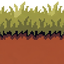
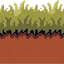
feat(vila-0): controles de toque + correcoes de cenario
- TouchControls: botoes virtuais mover/pular/atacar/interagir (so em dispositivo touch)
- InputManager unifica teclado e toque
- Dialogo e menu avancam por toque na tela
- Dicas de controle adaptadas ao dispositivo
- fix: remove faixa branca no topo do tile de grama (fundo do gerador)
- fix: cercas espacadas pela largura real da textura, sem sobreposicao
- cercas agora delimitam horta do moinho e pasto do campones

diff --git a/src/managers/TouchControls.js b/src/managers/TouchControls.js
@@ -1,0 +1,84 @@
+import Phaser from 'phaser';
+import { GAME_WIDTH, GAME_HEIGHT } from '../config/gameConfig.js';
+
+// Controles de toque para mobile.
+// Só são criados quando o dispositivo tem touch — no desktop o teclado continua sendo
+// o único input, sem poluir a tela com botões.
+export default class TouchControls {
+  constructor(scene) {
+    this.scene = scene;
+    this.enabled = scene.sys.game.device.input.touch;
+
+    this.state = {
+      left: false,
+      right: false,
+      jump: false,
+      attack: false,
+      interact: false,
+    };
+
+    // Flags de "acabou de pressionar", consumidas uma vez por frame pelo InputManager.
+    this.justPressed = { jump: false, attack: false, interact: false };
+
+    if (this.enabled) this.build();
+  }
+
+  build() {
+    const R = 52;
+    const bottom = GAME_HEIGHT - 90;
+
+    // D-pad à esquerda, ações à direita — polegar de cada mão.
+    this.makeButton(100, bottom, R, '◀', 'left');
+    this.makeButton(230, bottom, R, '▶', 'right');
+
+    this.makeButton(GAME_WIDTH - 110, bottom, R + 8, '▲', 'jump');
+    this.makeButton(GAME_WIDTH - 235, bottom - 60, R, '⚔', 'attack');
+    this.makeButton(GAME_WIDTH - 235, bottom + 55, R - 6, 'E', 'interact');
+  }
+
+  makeButton(x, y, radius, label, action) {
+    const circle = this.scene.add
+      .circle(x, y, radius, 0x000000, 0.35)
+      .setStrokeStyle(3, 0xffe9b0, 0.55)
+      .setScrollFactor(0)
+      .setDepth(1000)
+      .setInteractive({ useHandCursor: true });
+
+    const text = this.scene.add
+      .text(x, y, label, {
+        fontFamily: 'monospace',
+        fontSize: `${Math.round(radius * 0.7)}px`,
+        color: '#ffe9b0',
+      })
+      .setOrigin(0.5)
+      .setScrollFactor(0)
+      .setDepth(1001);
+
+    const press = () => {
+      this.state[action] = true;
+      if (action in this.justPressed) this.justPressed[action] = true;
+      circle.setFillStyle(0xffb84d, 0.4);
+      text.setColor('#fff8e6');
+    };
+
+    const release = () => {
+      this.state[action] = false;
+      circle.setFillStyle(0x000000, 0.35);
+      text.setColor('#ffe9b0');
+    };
+
+    circle.on('pointerdown', press);
+    circle.on('pointerup', release);
+    circle.on('pointerout', release);
+    // Se o dedo sair do botão sem soltar, o estado não pode ficar travado.
+    this.scene.input.on('pointerup', release);
+  }
+
+  // Consome as flags de "just pressed" — precisa ser chamado uma vez por frame,
+  // no fim do update da cena.
+  clearJustPressed() {
+    this.justPressed.jump = false;
+    this.justPressed.attack = false;
+    this.justPressed.interact = false;
+  }
+}

diff --git a/src/managers/InputManager.js b/src/managers/InputManager.js
@@ -1,8 +1,9 @@
 import Phaser from 'phaser';
+import TouchControls from './TouchControls.js';
 
-// Centraliza o mapeamento de teclas (03_GAMEPLAY_MACRO.md, Seção 6;
-// 08_ARQUITETURA_TECNICA.md, Seção 5).
-// Nenhuma cena lê teclado diretamente — tudo passa por aqui.
+// Centraliza o mapeamento de teclas e o input de toque
+// (03_GAMEPLAY_MACRO.md, Seção 6; 08_ARQUITETURA_TECNICA.md, Seção 5).
+// Nenhuma cena lê teclado ou toque diretamente — tudo passa por aqui.
 export default class InputManager {
   constructor(scene) {
     this.scene = scene;
@@ -22,39 +23,52 @@ export default class InputManager {
       interact: 'E',
       pause: 'ESC',
     });
+
+    this.touch = new TouchControls(scene);
   }
 
   get left() {
-    return this.keys.left.isDown || this.keys.a.isDown;
+    return this.keys.left.isDown || this.keys.a.isDown || this.touch.state.left;
   }
 
   get right() {
-    return this.keys.right.isDown || this.keys.d.isDown;
+    return this.keys.right.isDown || this.keys.d.isDown || this.touch.state.right;
   }
 
-  // Pulo pode ser espaço, seta pra cima ou W.
+  // Pulo pode ser espaço, seta pra cima, W ou o botão de toque.
   get jumpHeld() {
-    return this.keys.space.isDown || this.keys.up.isDown || this.keys.w.isDown;
+    return (
+      this.keys.space.isDown ||
+      this.keys.up.isDown ||
+      this.keys.w.isDown ||
+      this.touch.state.jump
+    );
   }
 
   jumpJustPressed() {
     return (
       Phaser.Input.Keyboard.JustDown(this.keys.space) ||
       Phaser.Input.Keyboard.JustDown(this.keys.up) ||
-      Phaser.Input.Keyboard.JustDown(this.keys.w)
+      Phaser.Input.Keyboard.JustDown(this.keys.w) ||
+      this.touch.justPressed.jump
     );
   }
 
   attackJustPressed() {
-    return Phaser.Input.Keyboard.JustDown(this.keys.attack);
+    return Phaser.Input.Keyboard.JustDown(this.keys.attack) || this.touch.justPressed.attack;
   }
 
   // Botão único de interação, contextual (03_GAMEPLAY_MACRO.md, Seção 6).
   interactJustPressed() {
-    return Phaser.Input.Keyboard.JustDown(this.keys.interact);
+    return Phaser.Input.Keyboard.JustDown(this.keys.interact) || this.touch.justPressed.interact;
   }
 
   pauseJustPressed() {
     return Phaser.Input.Keyboard.JustDown(this.keys.pause);
+  }
+
+  // Deve ser chamado no fim do update da cena, para não repetir o mesmo toque.
+  lateUpdate() {
+    this.touch.clearJustPressed();
   }
 }

diff --git a/src/scenes/biomes/Vila_0/Fase1Scene.js b/src/scenes/biomes/Vila_0/Fase1Scene.js
@@ -84,12 +84,20 @@ export default class Fase1Scene extends Phaser.Scene {
       this.add.image(tileX * TILE_SIZE, baseY, key).setOrigin(0.5, 1).setDepth(depth);
     });
 
-    FENCES.forEach(({ tileX, count }) => {
-      for (let i = 0; i < count; i += 1) {
-        const x = (tileX + i) * TILE_SIZE;
-        const key = i === 0 ? 'cerca_poste_esq' : i === count - 1 ? 'cerca_poste_dir' : 'cerca';
-        this.add.image(x, baseY, key).setOrigin(0, 1).setDepth(-4);
+    // As peças de cerca são mais largas que um tile, então o avanço usa a largura
+    // real da textura — senão elas se sobrepõem (bug da primeira versão).
+    FENCES.forEach(({ startTileX, pieces }) => {
+      let x = startTileX * TILE_SIZE;
+
+      const poste = this.add.image(x, baseY, 'cerca_poste_esq').setOrigin(0, 1).setDepth(-4);
+      x += poste.width;
+
+      for (let i = 0; i < pieces; i += 1) {
+        const seg = this.add.image(x, baseY, 'cerca').setOrigin(0, 1).setDepth(-4);
+        x += seg.width;
       }
+
+      this.add.image(x, baseY, 'cerca_poste_dir').setOrigin(0, 1).setDepth(-4);
     });
   }
 
@@ -178,9 +186,14 @@ export default class Fase1Scene extends Phaser.Scene {
       align: 'center',
     };
 
+    // O texto da dica muda conforme o dispositivo — no celular não existe "ESPAÇO".
+    const isTouch = this.sys.game.device.input.touch;
+    const moveHint = isTouch ? '◀ ▶ mover' : '← → mover';
+    const jumpHint = isTouch ? '▲ pular' : 'ESPAÇO pular';
+
     const baseY = (GROUND_ROW - 3) * TILE_SIZE;
-    this.add.text(3 * TILE_SIZE, baseY, '← → mover', style).setOrigin(0.5);
-    this.add.text(14 * TILE_SIZE, baseY, 'ESPAÇO pular', style).setOrigin(0.5);
+    this.add.text(3 * TILE_SIZE, baseY, moveHint, style).setOrigin(0.5);
+    this.add.text(14 * TILE_SIZE, baseY, jumpHint, style).setOrigin(0.5);
   }
 
   finishPhase() {
@@ -206,6 +219,9 @@ export default class Fase1Scene extends Phaser.Scene {
     if (input.attackJustPressed()) this.player.attack();
 
     this.handleNPCInteraction(input);
+
+    // Consome os toques deste frame — precisa ser a última linha do update.
+    input.lateUpdate();
   }
 
   handleNPCInteraction(input) {

diff --git a/src/scenes/MainMenuScene.js b/src/scenes/MainMenuScene.js
@@ -49,8 +49,13 @@ export default class MainMenuScene extends Phaser.Scene {
     start.on('pointerout', () => start.setColor('#e8dfd0'));
     start.on('pointerdown', () => this.startGame());
 
+    const isTouch = this.sys.game.device.input.touch;
+    const controlsHint = isTouch
+      ? 'Use os botões na tela para mover, pular e interagir'
+      : 'Setas/AD mover  •  ESPAÇO pular  •  X atacar  •  E interagir';
+
     this.add
-      .text(GAME_WIDTH / 2, GAME_HEIGHT - 70, 'Setas/AD mover  •  ESPAÇO pular  •  X atacar  •  E interagir', {
+      .text(GAME_WIDTH / 2, GAME_HEIGHT - 70, controlsHint, {
         fontFamily: 'monospace',
         fontSize: '16px',
         color: '#7a6a52',
@@ -59,6 +64,8 @@ export default class MainMenuScene extends Phaser.Scene {
 
     this.input.keyboard.once('keydown-ENTER', () => this.startGame());
     this.input.keyboard.once('keydown-SPACE', () => this.startGame());
+    // Mobile: toque em qualquer lugar da tela inicia.
+    this.input.once('pointerdown', () => this.startGame());
   }
 
   startGame() {

diff --git a/src/scenes/biomes/Vila_0/fase1Layout.js b/src/scenes/biomes/Vila_0/fase1Layout.js
@@ -36,11 +36,14 @@ export const PROPS = [
   { key: 'arvore', tileX: 80, depth: -5 },
 ];
 
-// Cercas decorativas ao longo do caminho.
+// Cercas — cada uma delimita algo que existe de fato no cenário, nunca decoração solta.
+// A largura real de cada peça é medida em tempo de execução (as peças são mais
+// largas que um tile), por isso aqui só definimos o início e quantas peças.
 export const FENCES = [
-  { tileX: 3, count: 4 },
-  { tileX: 53, count: 5 },
-  { tileX: 84, count: 4 },
+  // Cercado da horta, ao lado do moinho — marca a propriedade que o moinho serve.
+  { startTileX: 30, pieces: 3, reason: 'horta do moinho' },
+  // Cercado do pasto onde o Camponês trabalha — ele fica logo à frente dela.
+  { startTileX: 51, pieces: 3, reason: 'pasto do campones' },
 ];
 
 // NPC principal da fase (09_TEMPLATE_VERTICAL_SLICE.md, Seção 2).

diff --git a/src/scenes/DialogueOverlay.js b/src/scenes/DialogueOverlay.js
@@ -66,6 +66,8 @@ export default class DialogueOverlay extends Phaser.Scene {
 
     this.input.keyboard.on('keydown-E', () => this.advance());
     this.input.keyboard.on('keydown-SPACE', () => this.advance());
+    // Mobile: toque em qualquer lugar avança/acelera o texto.
+    this.input.on('pointerdown', () => this.advance());
 
     this.startLine();
   }
@@ -114,6 +116,7 @@ export default class DialogueOverlay extends Phaser.Scene {
   close() {
     this.typeEvent?.remove();
     this.input.keyboard.removeAllListeners();
+    this.input.removeAllListeners();
     if (this.callerScene) this.scene.resume(this.callerScene);
     this.scene.stop();
   }
